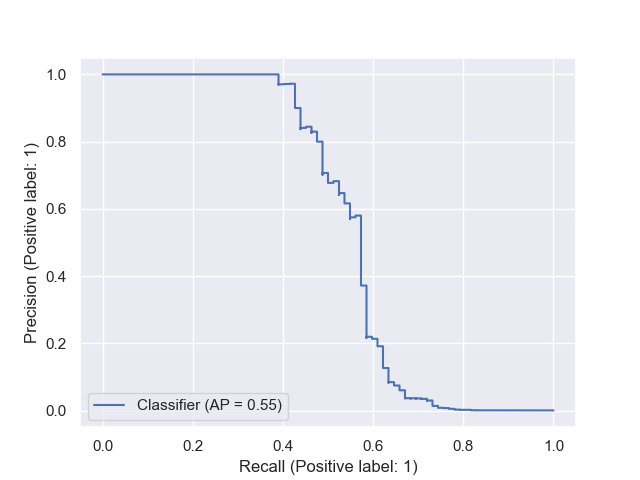
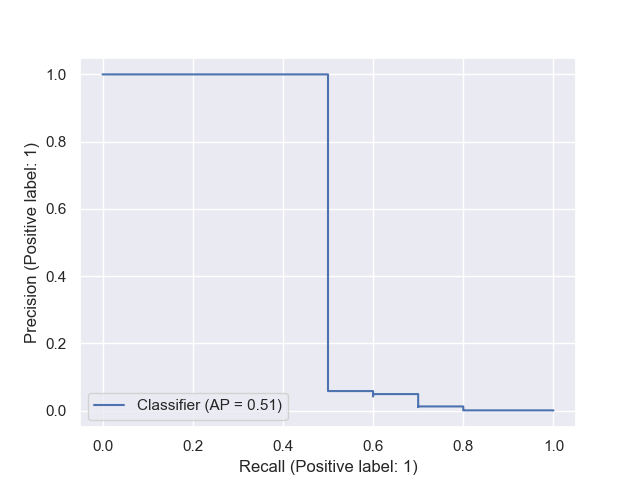
investingating why SparsePro- (variational_opt = CAVI, no annotations) and SparsePro+ (variational_opt = CAVI, weight_opt = binary, yes annotations) produce the same AUPRC

diff --git a/sp/src/trainer.py b/sp/src/trainer.py
@@ -119,7 +119,7 @@ class Trainer(object):
             # update weight vector
             self.weight_opt.zero_grad()
             loss = self.model() # compute updated ELBO
-            loss.backward(retain_graph=True)
+            loss.backward(retain_graph=True) # TODO: maybe delete this b/c gradient is not used
             self.weight_opt.update_model(self.model)
             self.weight_opt.step()
             
@@ -135,7 +135,16 @@ class Trainer(object):
                 self.variational_opt.zero_grad()
                 loss = self.model() # compute ELBO
                 loss.backward(retain_graph=True) # TODO: what happens if I stop this?
-                self.variational_opt.step()     
+                t1 = self.model.gamma() # before
+                self.variational_opt.step()
+                t2 = self.model.gamma() # after
+                
+                idx = torch.argwhere( t1 != t2)
+                print('\nChange in Gamma: ', idx.shape[0], '/', t1.shape[0]*t1.shape[1])  
+                for i in range(idx.shape[0]):
+                    el = idx[i]
+                    print(t1[el[0], el[1]].item(), t2[el[0], el[1]].item())
+                    break
 
     def eval(self):
         print('\n', '-'*35, f'EVALUATION', '-'*35)

diff --git a/sp/src/model.py b/sp/src/model.py
@@ -142,10 +142,8 @@ class SparsePro(nn.Module):
         for k in range(self.k):
             idxall = [x for x in range(self.k)]
             idxall.remove(k)
-            beta_all_k = (gamma[:,idxall] * beta_mu[:,idxall]).sum(axis=1)
-            # beta_mu[:,k] = (self.ytX - torch.matmul(beta_all_k, self.XtX)) / (
-            #                 self.beta_post_tau[:,k] * self.y_tau)
             
+            beta_all_k = (gamma[:,idxall] * beta_mu[:,idxall]).sum(axis=1)    
             beta_mu[:,k] = (self.ytX - np.matmul(beta_all_k.numpy(), self.XtX.numpy())) / (
                             self.beta_post_tau[:,k] * self.y_tau)
             

diff --git a/sp/src/main.py b/sp/src/main.py
@@ -17,7 +17,7 @@ if __name__ == '__main__':
     parser.add_argument('--variational-opt', choices=['adam', 'cavi'], required=True)
     parser.add_argument('--weight-opt', choices=['adam', 'binary'], required=True)
     parser.add_argument('--lr', type=float, default=1e-3)
-    parser.add_argument('--num-epochs', type=int, default=10)
+    parser.add_argument('--num-epochs', type=int, default=3)
     parser.add_argument('--num-steps', type=int, default=30)
     parser.add_argument('--eps', type=float, default=1e-7,
         help='threshold for loss improvement')
